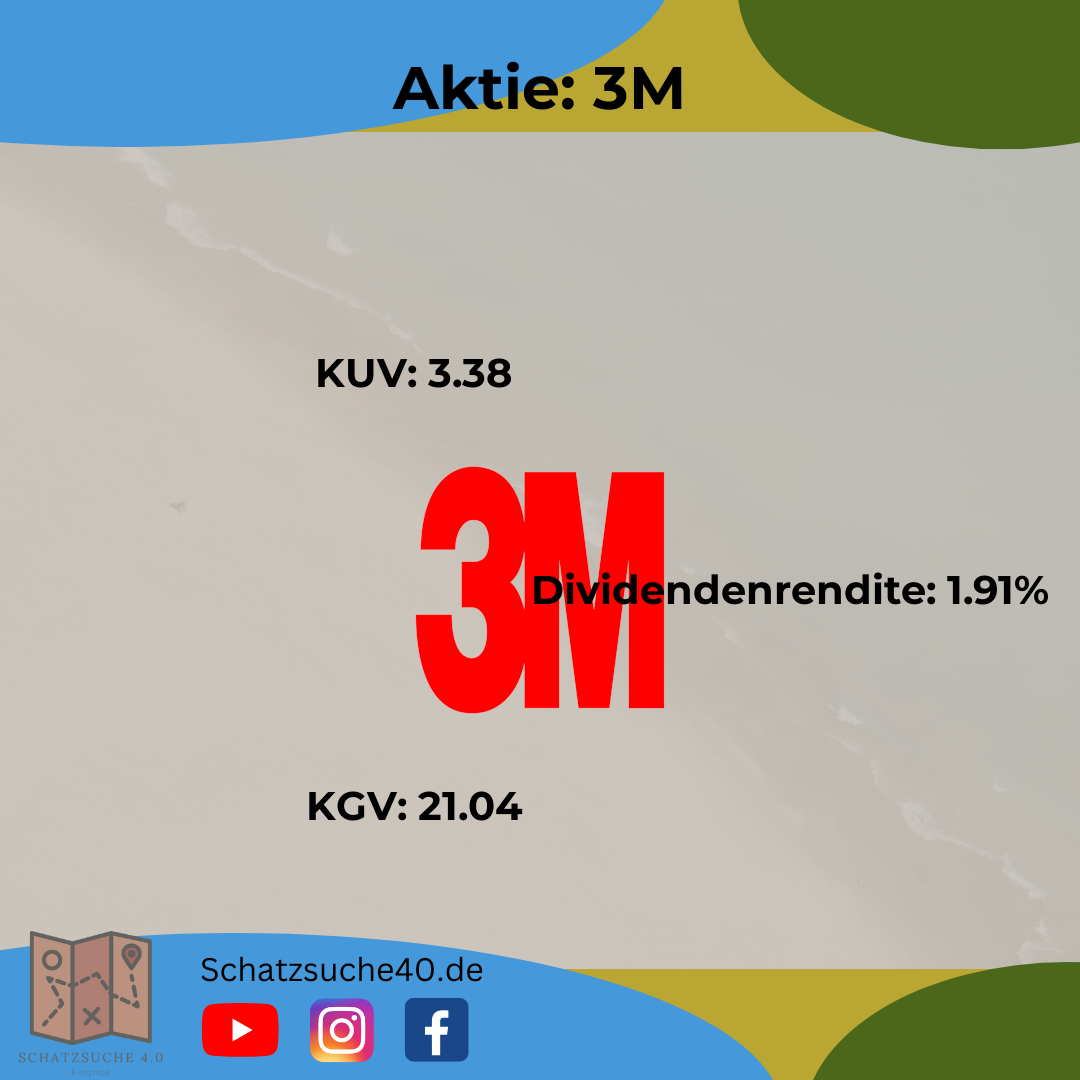
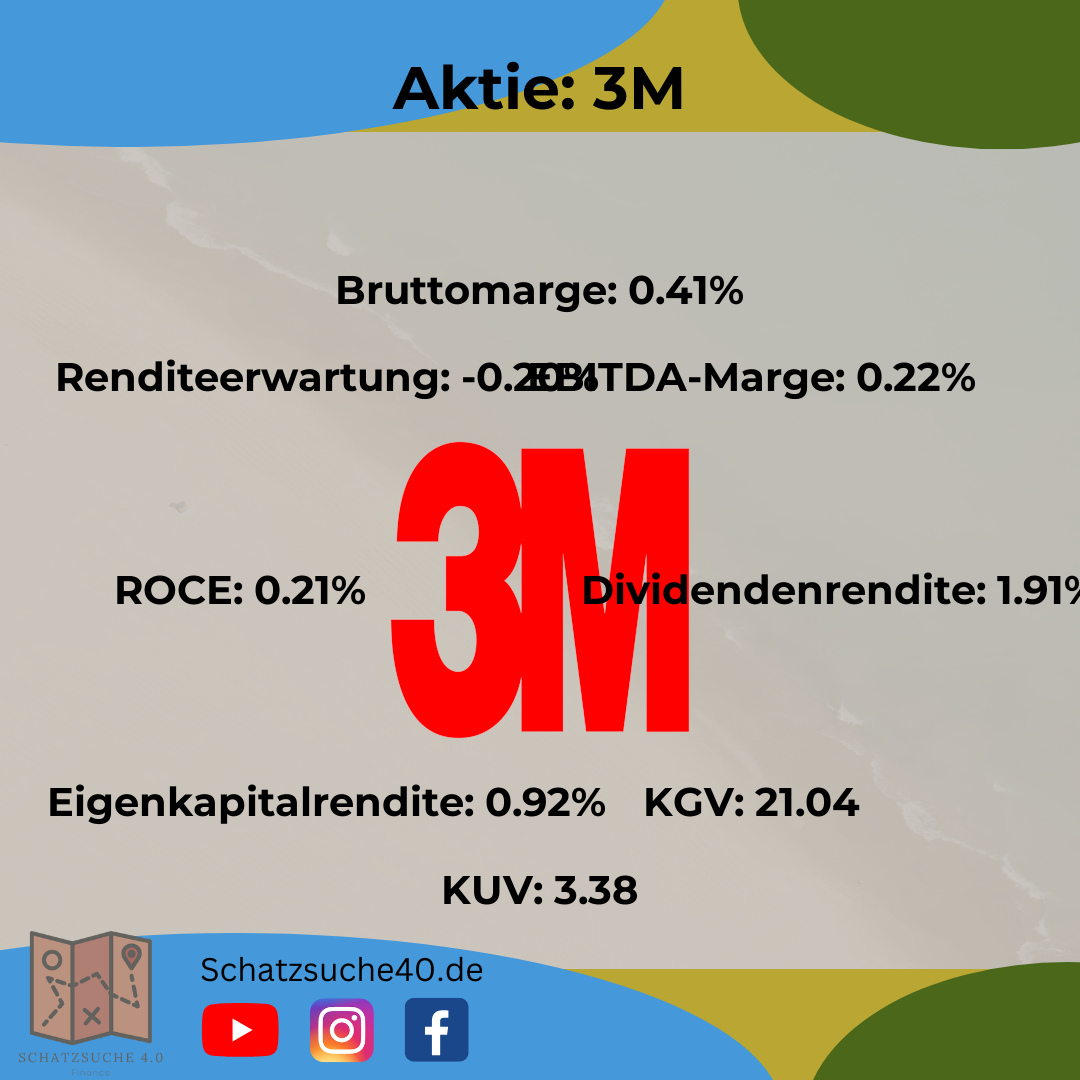
Aktualisierte Version vom [heutiges Datum]

diff --git a/app.py b/app.py
@@ -6,34 +6,28 @@ import math
 
 app = Flask(__name__)
 
-# Ordner für hochgeladene und generierte Dateien
 UPLOAD_FOLDER = 'uploads'
 OUTPUT_FOLDER = 'output'
 os.makedirs(UPLOAD_FOLDER, exist_ok=True)
 os.makedirs(OUTPUT_FOLDER, exist_ok=True)
 
-# Beispiel: CSV-Datei und Font-Pfad
 CSV_FILE = 'stock_data.csv'
 FONT_PATH = 'static/fonts/Montserrat-Bold.ttf'
 
 @app.route('/')
 def home():
-    """Startseite mit Formular."""
     return render_template("index.html")
 
 @app.route('/generate_image', methods=['POST'])
 def generate_image():
-    """Nimmt Ticker + Hintergrund entgegen, erzeugt das Bild und leitet weiter."""
     ticker = request.form.get('ticker', '').upper()
     if not ticker:
         return "Bitte einen Ticker angeben!", 400
 
-    # CSV-Daten auslesen
     stock_data = get_stock_data(ticker)
     if not stock_data:
         return f"Keine Daten für Ticker '{ticker}' gefunden.", 400
 
-    # Hintergrundbild speichern
     if 'background' not in request.files:
         return "Bitte ein Hintergrundbild hochladen!", 400
     background_file = request.files['background']
@@ -42,32 +36,20 @@ def generate_image():
     background_path = os.path.join(UPLOAD_FOLDER, background_file.filename)
     background_file.save(background_path)
 
-    # Bild erzeugen
     output_path = create_stock_image(background_path, stock_data, ticker)
-
-    # Dateiname extrahieren
     filename = os.path.basename(output_path)
 
-    # Weiterleitung zur Ergebnis-Seite
     return redirect(url_for('display_result', filename=filename))
 
 @app.route('/display_result/<filename>')
 def display_result(filename):
-    """
-    Zeigt das generierte Bild an und bietet Download-Link.
-    filename: Name der Bilddatei im Ordner output/
-    """
     return render_template("display_result.html", filename=filename)
 
 @app.route('/output/<path:filename>')
 def output_file(filename):
-    """
-    Liefert die generierte Bilddatei aus dem output-Ordner aus.
-    """
     return send_from_directory(OUTPUT_FOLDER, filename)
 
 def get_stock_data(ticker):
-    """Dein Code zum Auslesen aus der CSV-Datei."""
     try:
         df = pd.read_csv(CSV_FILE, delimiter=",", encoding="ISO-8859-1", on_bad_lines="skip")
         df.columns = df.columns.str.strip()
@@ -75,31 +57,22 @@ def get_stock_data(ticker):
         print(f"Fehler beim Einlesen der CSV: {e}")
         return None
 
-    # Datenbereinigung
     df["Symbol"] = df["Symbol"].str.strip().str.upper()
-    df["Dividendenrendite"] = pd.to_numeric(df["Dividendenrendite"], errors='coerce')
-    df["KGV"] = pd.to_numeric(df["KGV"], errors='coerce')
-    df["KUV"] = pd.to_numeric(df["KUV"], errors='coerce')
-    df = df.dropna(subset=["Dividendenrendite", "KGV", "KUV"])
+    numeric_columns = ["Dividendenrendite", "KGV", "KUV", "Eigenkapitalrendite", "ROCE", "Renditeerwartung", "Bruttomarge", "EBITDA-Marge"]
+    for col in numeric_columns:
+        df[col] = pd.to_numeric(df[col], errors='coerce')
+    df = df.dropna(subset=numeric_columns)
 
     row = df[df["Symbol"] == ticker]
     if row.empty:
         return None
 
-    return {
-        "Unternehmensname": row.iloc[0]["Security"],
-        "Dividendenrendite": row.iloc[0]["Dividendenrendite"],
-        "KGV": row.iloc[0]["KGV"],
-        "KUV": row.iloc[0]["KUV"]
-    }
+    return {col: row.iloc[0][col] for col in numeric_columns + ["Security"]}
 
 def create_stock_image(background_path, stock_data, ticker):
-    """Erzeugt das Bild und speichert es unter output/."""
-    # Hintergrund laden
     img = Image.open(background_path).convert("RGBA")
     draw = ImageDraw.Draw(img)
 
-    # Schriften laden
     try:
         font = ImageFont.truetype(FONT_PATH, 40)
         title_font = ImageFont.truetype(FONT_PATH, 60)
@@ -107,37 +80,35 @@ def create_stock_image(background_path, stock_data, ticker):
         font = ImageFont.load_default()
         title_font = font
 
-    # Logo einfügen (falls vorhanden)
     logo_path = f"static/logos/{ticker}.png"
-    center_x = img.width // 2
-    center_y = img.height // 2
-
     if os.path.exists(logo_path):
         logo = Image.open(logo_path).convert("RGBA")
-        logo_size = 250
+        logo_size = 300  # Logo vergrößert
         logo = logo.resize((logo_size, logo_size))
         center_x = img.width // 2 - logo_size // 2
         center_y = img.height // 2 - logo_size // 2 + 50
         img.paste(logo, (center_x, center_y), logo)
 
-    # Titel
-    title_text = f"Aktie: {stock_data['Unternehmensname']}"
+    title_text = f"Aktie: {stock_data['Security']}"
     title_bbox = title_font.getbbox(title_text)
     title_width = title_bbox[2] - title_bbox[0]
     draw.text((img.width // 2 - title_width // 2, 50), title_text, fill="black", font=title_font)
 
-    # Kennzahlen kreisförmig
-    radius = 250
+    radius = 300
     text_items = [
         f"Dividendenrendite: {stock_data['Dividendenrendite']:.2f}%",
         f"KGV: {stock_data['KGV']:.2f}",
-        f"KUV: {stock_data['KUV']:.2f}"
+        f"KUV: {stock_data['KUV']:.2f}",
+        f"Eigenkapitalrendite: {stock_data['Eigenkapitalrendite']:.2f}%",
+        f"ROCE: {stock_data['ROCE']:.2f}%",
+        f"Renditeerwartung: {stock_data['Renditeerwartung']:.2f}%",
+        f"Bruttomarge: {stock_data['Bruttomarge']:.2f}%",
+        f"EBITDA-Marge: {stock_data['EBITDA-Marge']:.2f}%"
     ]
     angle_step = 360 / len(text_items)
 
-    # Mittelpunkt für den Kreis = Logo-Mitte
-    logo_center_x = center_x + 125  # 125 = Hälfte von logo_size
-    logo_center_y = center_y + 125
+    logo_center_x = center_x + logo_size // 2
+    logo_center_y = center_y + logo_size // 2
 
     for i, text in enumerate(text_items):
         angle = math.radians(i * angle_step)
@@ -145,7 +116,6 @@ def create_stock_image(background_path, stock_data, ticker):
         text_y = int(logo_center_y + radius * math.sin(angle))
         draw.text((text_x, text_y), text, fill="black", font=font, anchor="mm")
 
-    # Bild speichern
     output_filename = f"{ticker}_stock_image.png"
     output_path = os.path.join(OUTPUT_FOLDER, output_filename)
     img.save(output_path, "PNG")
